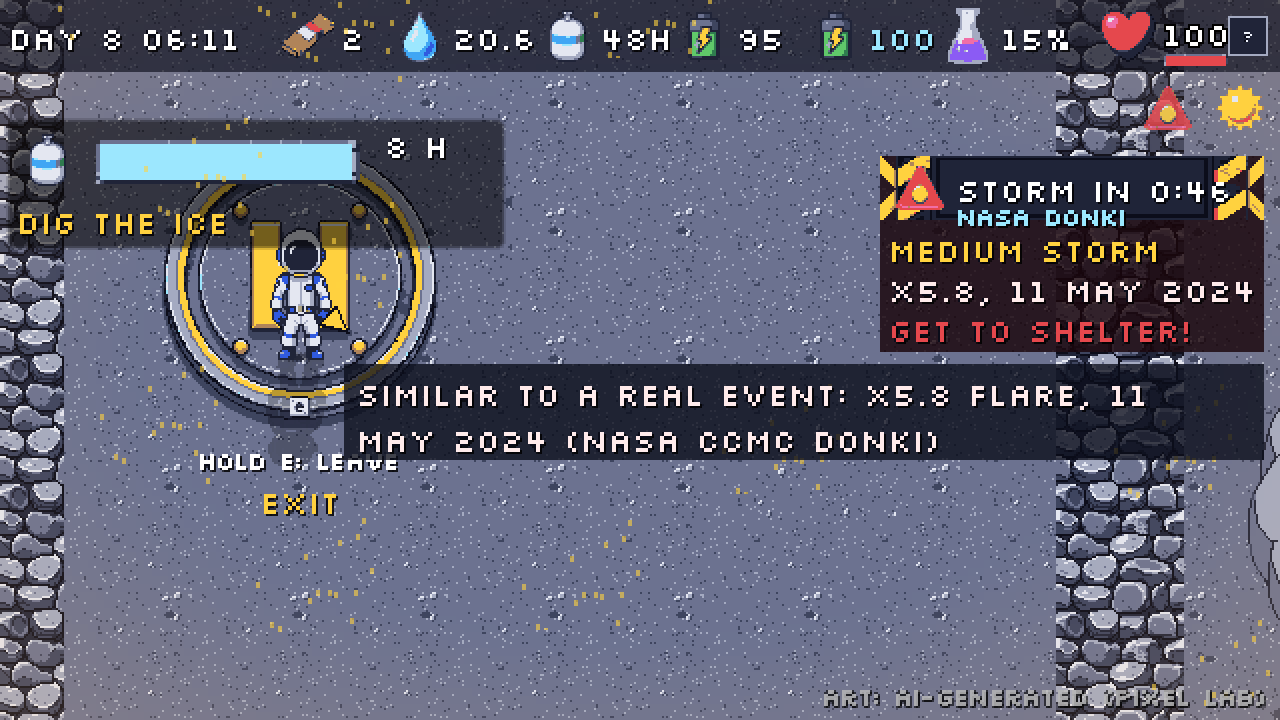
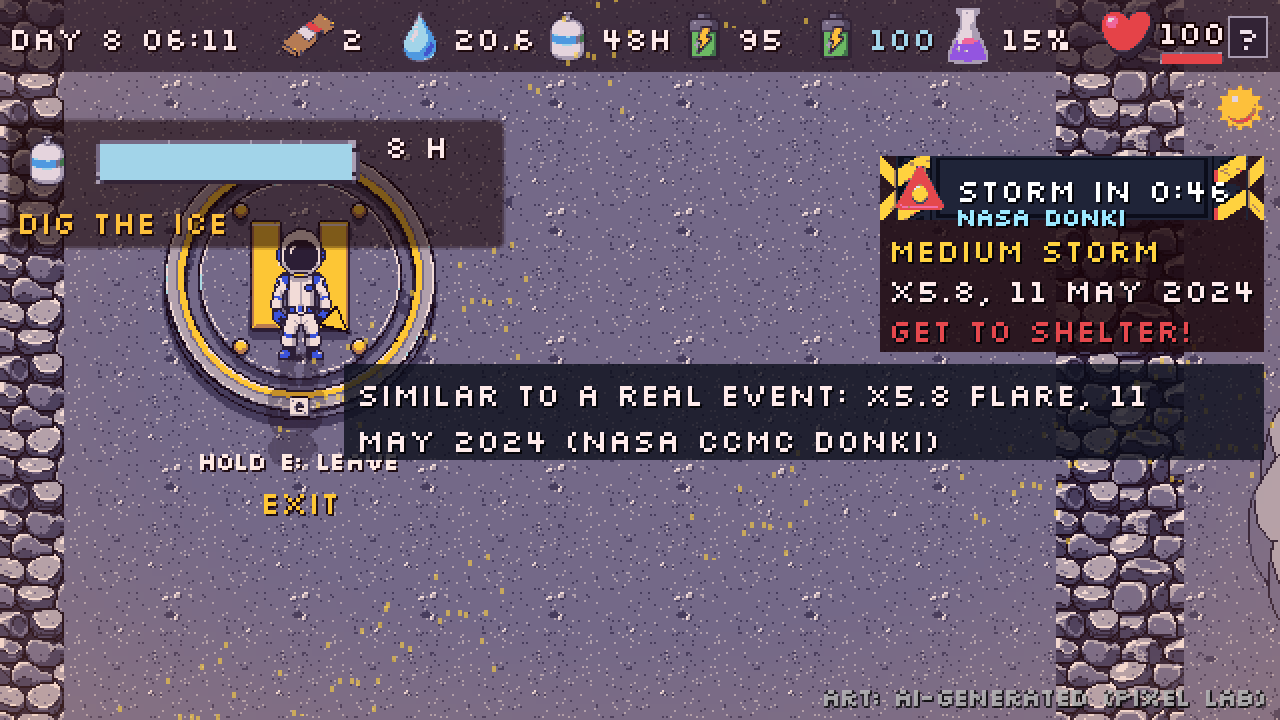
POLISH 5: warm window glows, colour grade (deeper blue on shadow days), softer flashlight; HUD review fixes

diff --git a/docs/DECISIONS_LOG.md b/docs/DECISIONS_LOG.md
@@ -53,3 +53,4 @@
 - POLISH 2 (polar sun): long shadows are the sprites' own textures tinted black in one CanvasGroup (27% alpha, so overlaps never double-darken), skewed by Transform2D along a direction that turns once per 24 game hours (SUN_PHASE in polish.gd to rotate it); no derived silhouette PNGs needed. Hidden on shadow days. Welcome card body shortened so the new line fits (ui_check). Grounding made 25% stronger after review (too faint on camera).
 - POLISH 3 (ground): tools/make_ground.py bakes one 1280x960 ground image (noise-mixed ground_1..3 at 70% speckle contrast, dithered irregular path borders, new path connector from the solar row to the main path at x 1000-1044, pebbles, tiny craters, wheel tracks and boot prints near the pad, cables solar->charger->habitat and lab->antenna, pipe recycler->habitat). polish.gd hides GroundFill/Path*/Patch* and shows it; walls and craters stay. Live boot prints every 10 px fade over 30 s (max 120). Re-run make_ground.py if buildings or paths move in Outpost.tscn.
 - POLISH 4 (HUD): the strip was full to the pixel, so cells lost 2 px each (icon-to-value gap 34->32, clock cell 140->138; ui_check still passes). Health: heart, number beside it, thin red bar under the number. Facts is a '?' button at the right end of the strip (F still works). UIStyle.SAFE = 6 px: watermark, checklist and skip button respect it. JUDGE MODE label is 12 px under the strip (x 440). TODAY checklist folds with T and fades to 40% while the player is behind it. Ground bake: lumpier path borders, soft large tonal areas, 1 px blue-grey cables (review).
+- POLISH 5 (light): warm additive glows that breathe gently on the habitat porthole and door, the lab window and the charger light (pixel positions in polish.gd GLOWS); one colour-grade shader (layer 4, under vignette and HUD): cool shadows, warm highlights, contrast 1.05, deeper blue on shadow days; flashlight gradient has a softer edge. HUD review fixes: health number/bar inside the strip, '?' at 16 px, locked checklist rows lighter.
